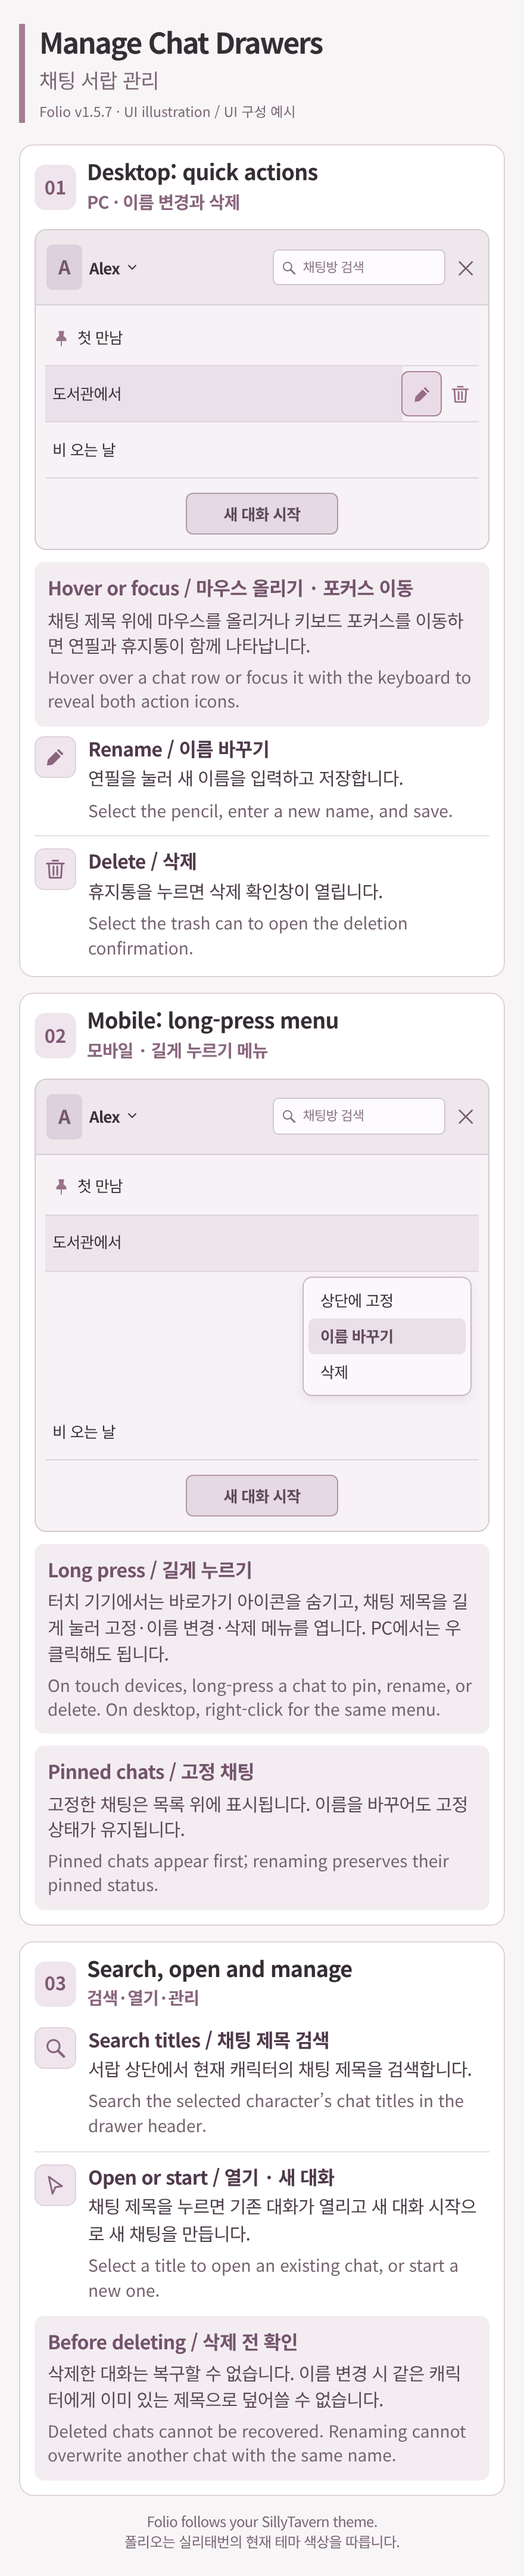
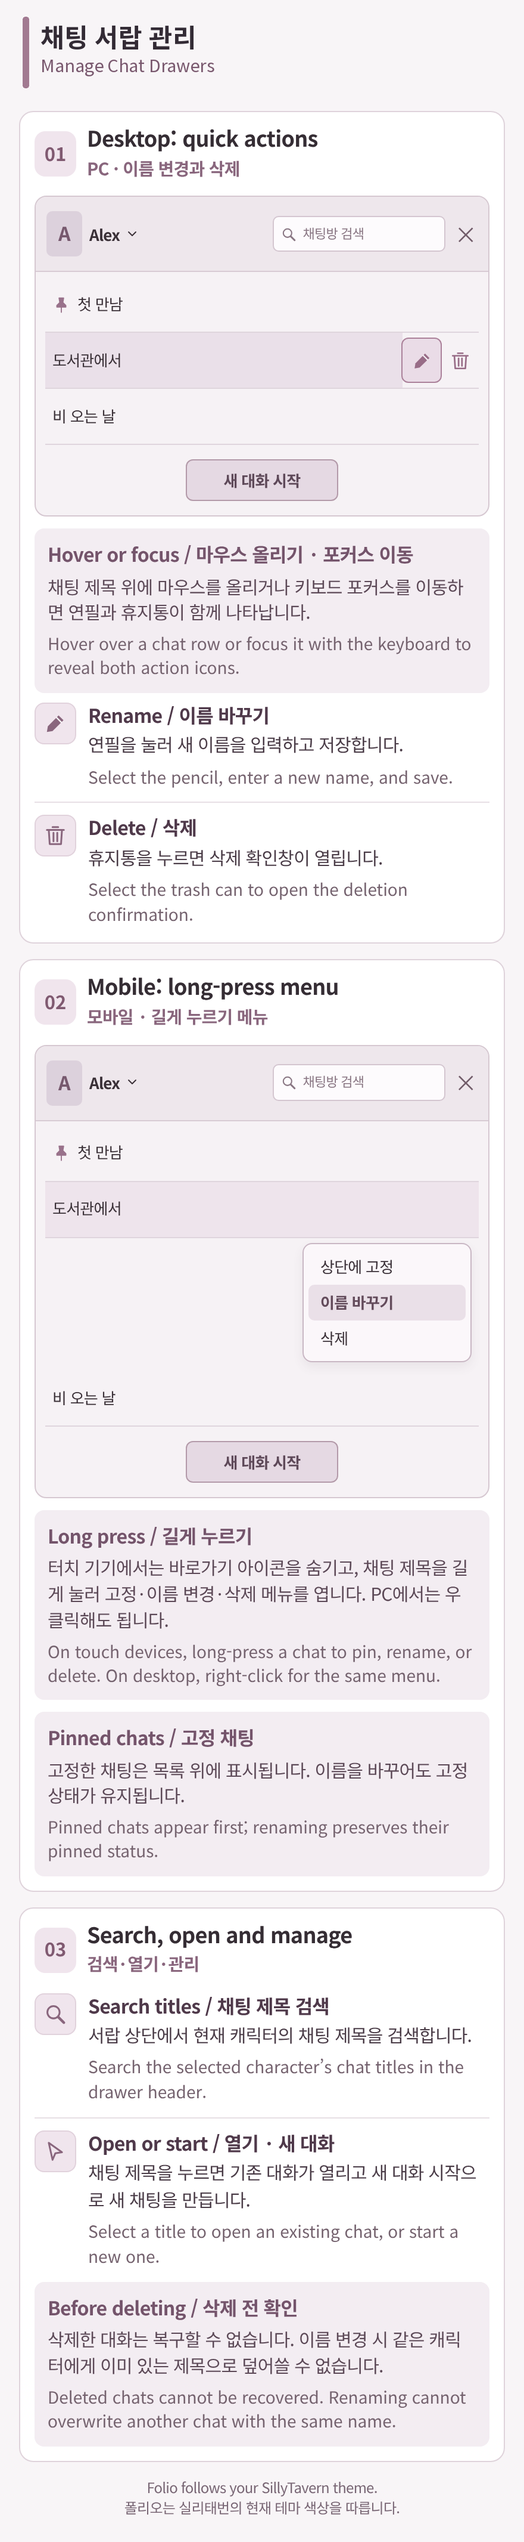
docs: clean guide image captions and bilingual headings

diff --git a/README.md b/README.md
@@ -59,7 +59,7 @@ Portraits are loaded as they approach the visible area. If a portrait cannot be 
 Clicking a character opens a drawer containing that character's saved chat filenames.
 
 <p align="center">
-  <a href="assets/readme/mobile/folio-chat-drawer-guide-mobile.png"><img src="assets/readme/mobile/folio-chat-drawer-guide-mobile.png" alt="Folio chat drawer: search, pin, rename, delete, and mobile long-press menu (v1.5.7 UI illustration)" width="860" /></a>
+  <a href="assets/readme/mobile/folio-chat-drawer-guide-mobile.png"><img src="assets/readme/mobile/folio-chat-drawer-guide-mobile.png" alt="Folio chat drawer: search, pin, rename, delete, and mobile long-press menu" width="860" /></a>
 </p>
 
 | Control or action | What it does |
@@ -183,7 +183,7 @@ SillyTavern 시작 화면에 캐릭터 선반을 추가해, 먼저 캐릭터를 
 캐릭터를 누르면 그 캐릭터에게 저장된 채팅 파일명이 서랍에 표시됩니다.
 
 <p align="center">
-  <a href="assets/readme/mobile/folio-chat-drawer-guide-mobile.png"><img src="assets/readme/mobile/folio-chat-drawer-guide-mobile.png" alt="폴리오 채팅 서랍의 검색·고정·이름 변경·삭제와 모바일 길게 누르기 메뉴 (v1.5.7 UI 구성 예시)" width="860" /></a>
+  <a href="assets/readme/mobile/folio-chat-drawer-guide-mobile.png"><img src="assets/readme/mobile/folio-chat-drawer-guide-mobile.png" alt="폴리오 채팅 서랍의 검색·고정·이름 변경·삭제와 모바일 길게 누르기 메뉴" width="860" /></a>
 </p>
 
 | 조작 | 기능 |
